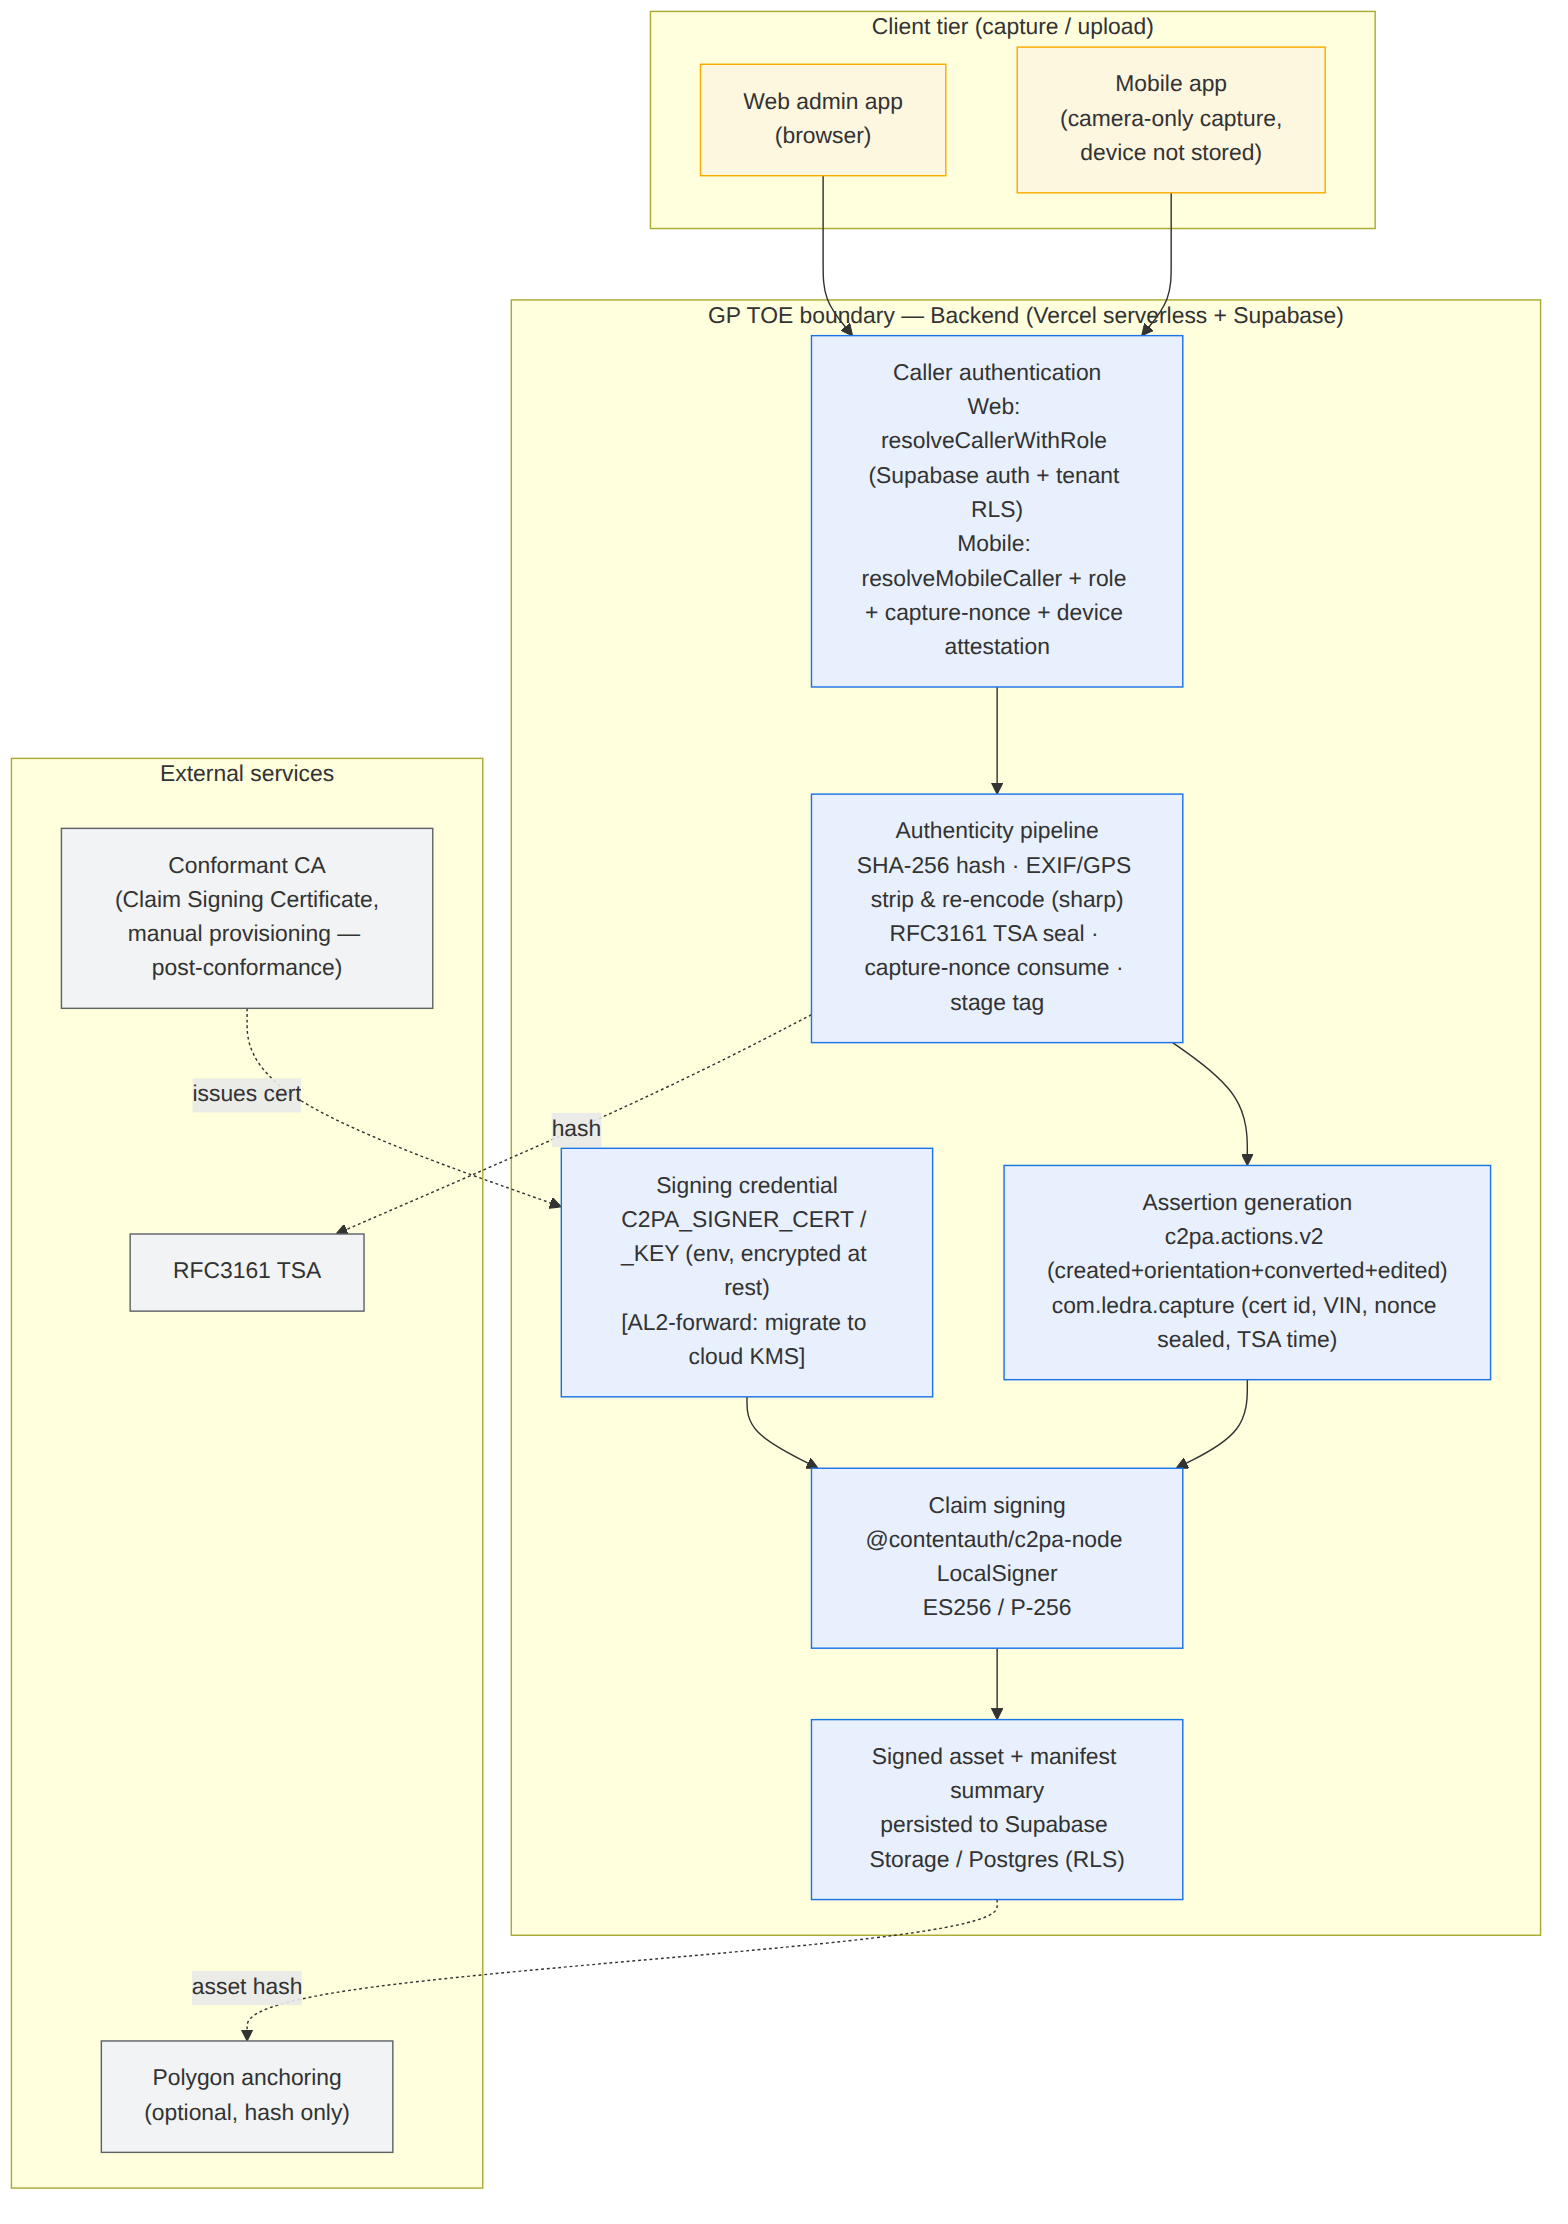
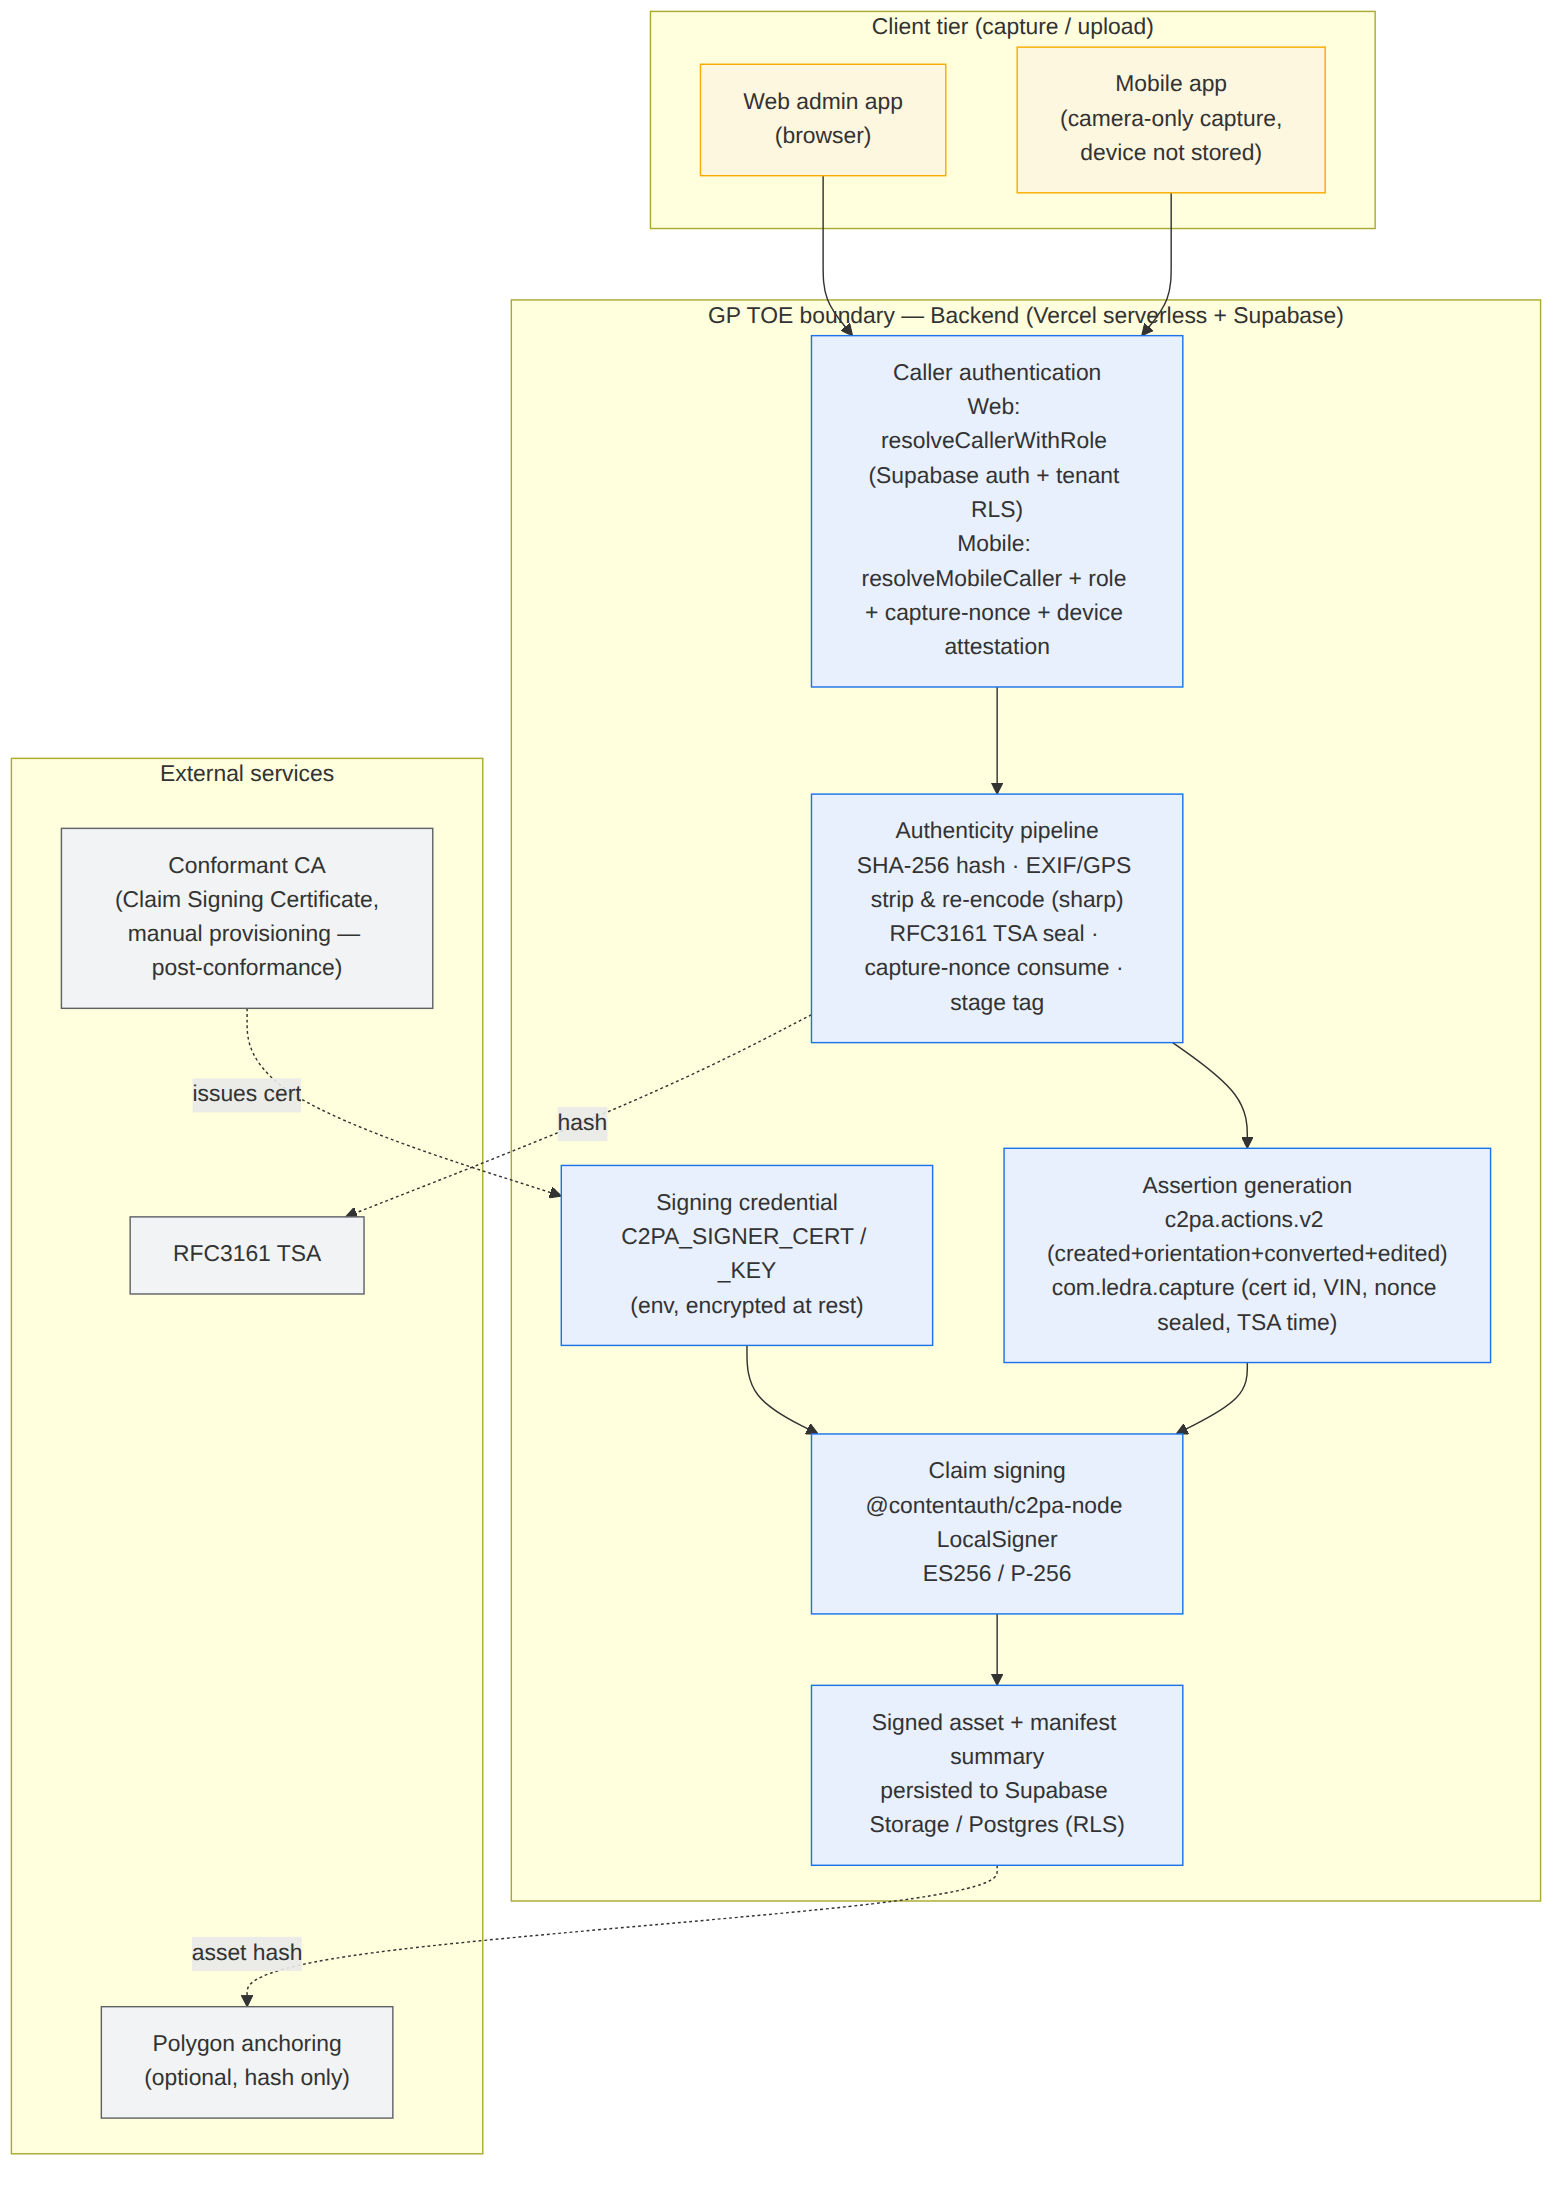
docs(c2pa): GPSAを現在形に改訂+運用管理策の補足資料を作成
Administrator メール要件「forward-looking/planned 表現は不可、設計レベルで
現状のみ」に対応。
- GPSA(c2pa-gpsa.md)から将来・計画・要確認/要整備表現を全除去し現在形化。
  O.2 は env鍵をAL1 O.2 L1の許容形態(GP自身が復号鍵を扱う)として現状記述、
  O.1は自動エンロール不使用で該当なし、O.3-O.6は運用文書を参照。AL2/KMS移行の
  記述をGPSAから撤去。
- 補足資料 c2pa-gpsa-operational-controls.md を新規作成: 実在ツール
  (Dependabot週次/CodeQL security-extended/Codacy)に基づく脆弱性修正ポリシー
  (90日, 30/90/180 SLA)、OWASP Top10カバレッジ表、鍵ローテ手順を現在形で記述。
- アーキ図から "[AL2-forward: migrate to KMS]" 注記を除去し再レンダリング。

Claude-Session: https://claude.ai/code/session_01D8iTXwYpcFXYewqPNynNPJ

diff --git a/docs/c2pa-gpsa-operational-controls.md b/docs/c2pa-gpsa-operational-controls.md
@@ -1,0 +1,73 @@
+# Ledra GPSA — Operational Security Controls (Supporting Document)
+
+> C2PA Generator Product Security Architecture (GPSA) 提出補足資料。GPSA 本体
+> `docs/c2pa-gpsa.md` の O.2–O.6 が参照する現行の運用管理策を、**現在有効なものとして**記述する。
+> ツール構成は実在の設定（`.github/dependabot.yml`, `.github/workflows/codeql.yml`,
+> `.github/workflows/codacy.yml`, `.github/workflows/ci.yml`）に基づく。
+> 本書は現行運用の記述であり、記載内容の妥当性は代表が最終確認する。
+
+## 1. 依存関係・脆弱性スキャン（O.3 / O.4 / O.6）
+
+Generator Product とそのコンテンツ処理ソフトのビルド/統合に対し、以下を継続的に実行している。
+
+- **Dependabot**（`.github/dependabot.yml`）: npm 依存（リポジトリルートおよび `/apps/mobile`）と
+  GitHub Actions を対象に、毎週月曜に脆弱性・更新を検査し PR を自動起票する。NVD 由来の既知脆弱性を検知する。
+- **CodeQL**（`.github/workflows/codeql.yml`）: すべての push・pull request、および毎週月曜のスケジュール
+  （`cron: "0 3 * * 1"`）で `security-extended` クエリスイートを実行し、静的解析でコードの脆弱性を検知する。
+- **Codacy**（`.github/workflows/codacy.yml`）: 静的解析・コード品質検査を CI で実行する。
+- **CI**（`.github/workflows/ci.yml`）: 型チェック・Lint・テストを push/PR で実行する。
+
+これらは Claim Generator（署名系 `@contentauth/c2pa-node`）と、コンテンツ/アサーションを処理するソフト
+（画像処理 `sharp`、アップロード処理 `src/lib/certificateImages/*`）を含む GP TOE 全体の依存を対象とする。
+
+## 2. 脆弱性修正ポリシー（O.3 / O.4 / O.6）
+
+検知した脆弱性は重大度に応じて以下の期限内に修正・緩和する。修正は PR ベースで行い、Dependabot/CodeQL/
+Codacy のアラートをトリアージして対応する。
+
+| 重大度（CVSS v3+） | 修正/緩和の期限 |
+|---|---|
+| CRITICAL | 検知から 90 日以内（O.3 / O.4） |
+| HIGH | 検知から 90 日以内（O.3 / O.4）／ホスティング環境は 30 日以内（O.6） |
+| MODERATE | 90 日以内（O.6） |
+| LOW | 180 日以内（O.6） |
+
+Claim Generator ビルドについては、CRITICAL/HIGH の既知脆弱性を検知から 90 日を超えて残したまま出荷しない
+運用とする。
+
+## 3. OWASP Top 10 カバレッジ（O.6）
+
+Web アプリケーションの主要脆弱性（OWASP Top 10）を以下の管理策でカバーする。
+
+| OWASP Top 10（2021） | 主な管理策 |
+|---|---|
+| A01 アクセス制御の不備 | Supabase Row Level Security（テナント分離・行レベル制御）、API のロール確認（`resolveCallerWithRole` / `requireMinRole`） |
+| A02 暗号化の失敗 | 通信は TLS 1.3（Vercel/Supabase）。署名鍵は保存時暗号化（環境変数） |
+| A03 インジェクション | CodeQL `security-extended`（SQL/コマンド/XSS 等）、Supabase パラメタライズドクエリ |
+| A04 安全でない設計 | 認証・テナント分離・撮影 nonce・端末アテステーションを設計に内在化 |
+| A05 セキュリティ設定ミス | CodeQL/Codacy による設定・コード検査、Vercel/Supabase のマネージド設定 |
+| A06 脆弱・古いコンポーネント | Dependabot（週次）＋ CodeQL |
+| A07 認証の不備 | Supabase Auth、モバイルは端末アテステーション＋単回使用 nonce |
+| A08 データ完全性の不備 | 依存の脆弱性検査、CI の型/テスト、C2PA 署名による成果物の完全性 |
+| A09 ログ・監視の不備 | Sentry によるエラー監視（AL1 範囲。監査ログ拡充は本申請の対象外） |
+| A10 SSRF | 外部呼び出しの限定、CodeQL 検査 |
+
+## 4. 署名鍵ローテーション手順（O.2）
+
+Claim Signing Certificate / Key は環境変数 `C2PA_SIGNER_CERT` / `C2PA_SIGNER_KEY` で保持する。ローテーションは
+次の手順で実施できる。
+
+1. 認定 CA から新しい Claim Signing Certificate（および対応する秘密鍵）を取得する。
+2. 実行環境（Vercel）の環境変数 `C2PA_SIGNER_CERT` / `C2PA_SIGNER_KEY` を新しい値へ更新する。
+   環境変数は保存時に暗号化され、更新権限はプロジェクトの管理者に限定される。
+3. デプロイにより新しい資格情報が有効化される（`c2paSigner.ts` はプロセス起動後の初回署名時に
+   環境変数から資格情報を読み込む）。
+4. 旧証明書の失効が必要な場合は発行 CA に失効を依頼する。
+
+ローテーションのトリガーは、証明書の有効期限接近、鍵漏洩の懸念、運用方針上の定期更新である。
+
+## 5. 代表確認事項
+
+- 本書記載の重大度別 SLA（90 日 / 30・90・180 日）を現行運用として確定・遵守すること。
+- OWASP カバレッジ表の各管理策が実運用と一致することの確認。
+- Sentry 等のログ/監視構成の記述が現状と一致することの確認。
